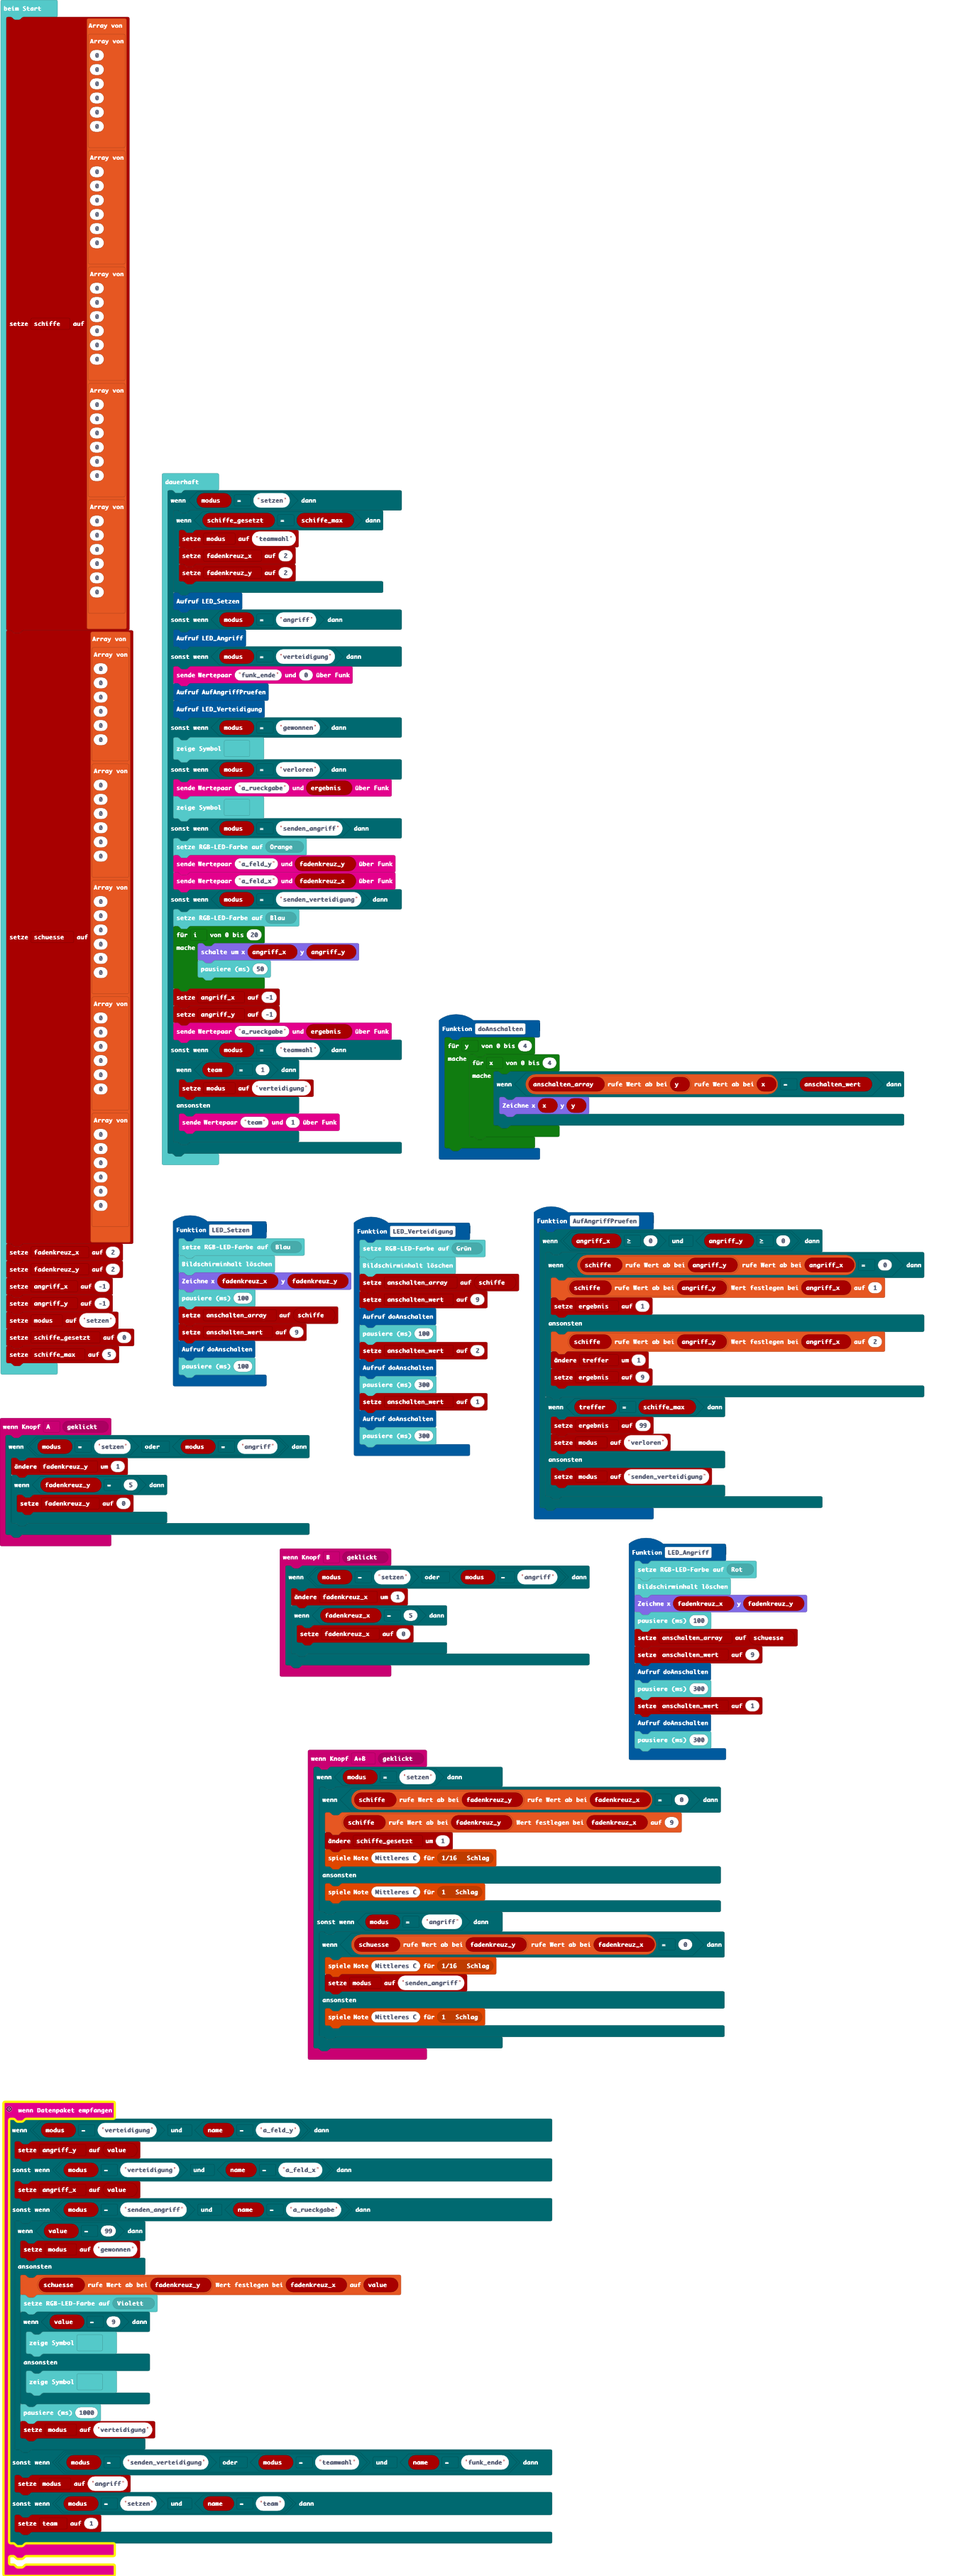
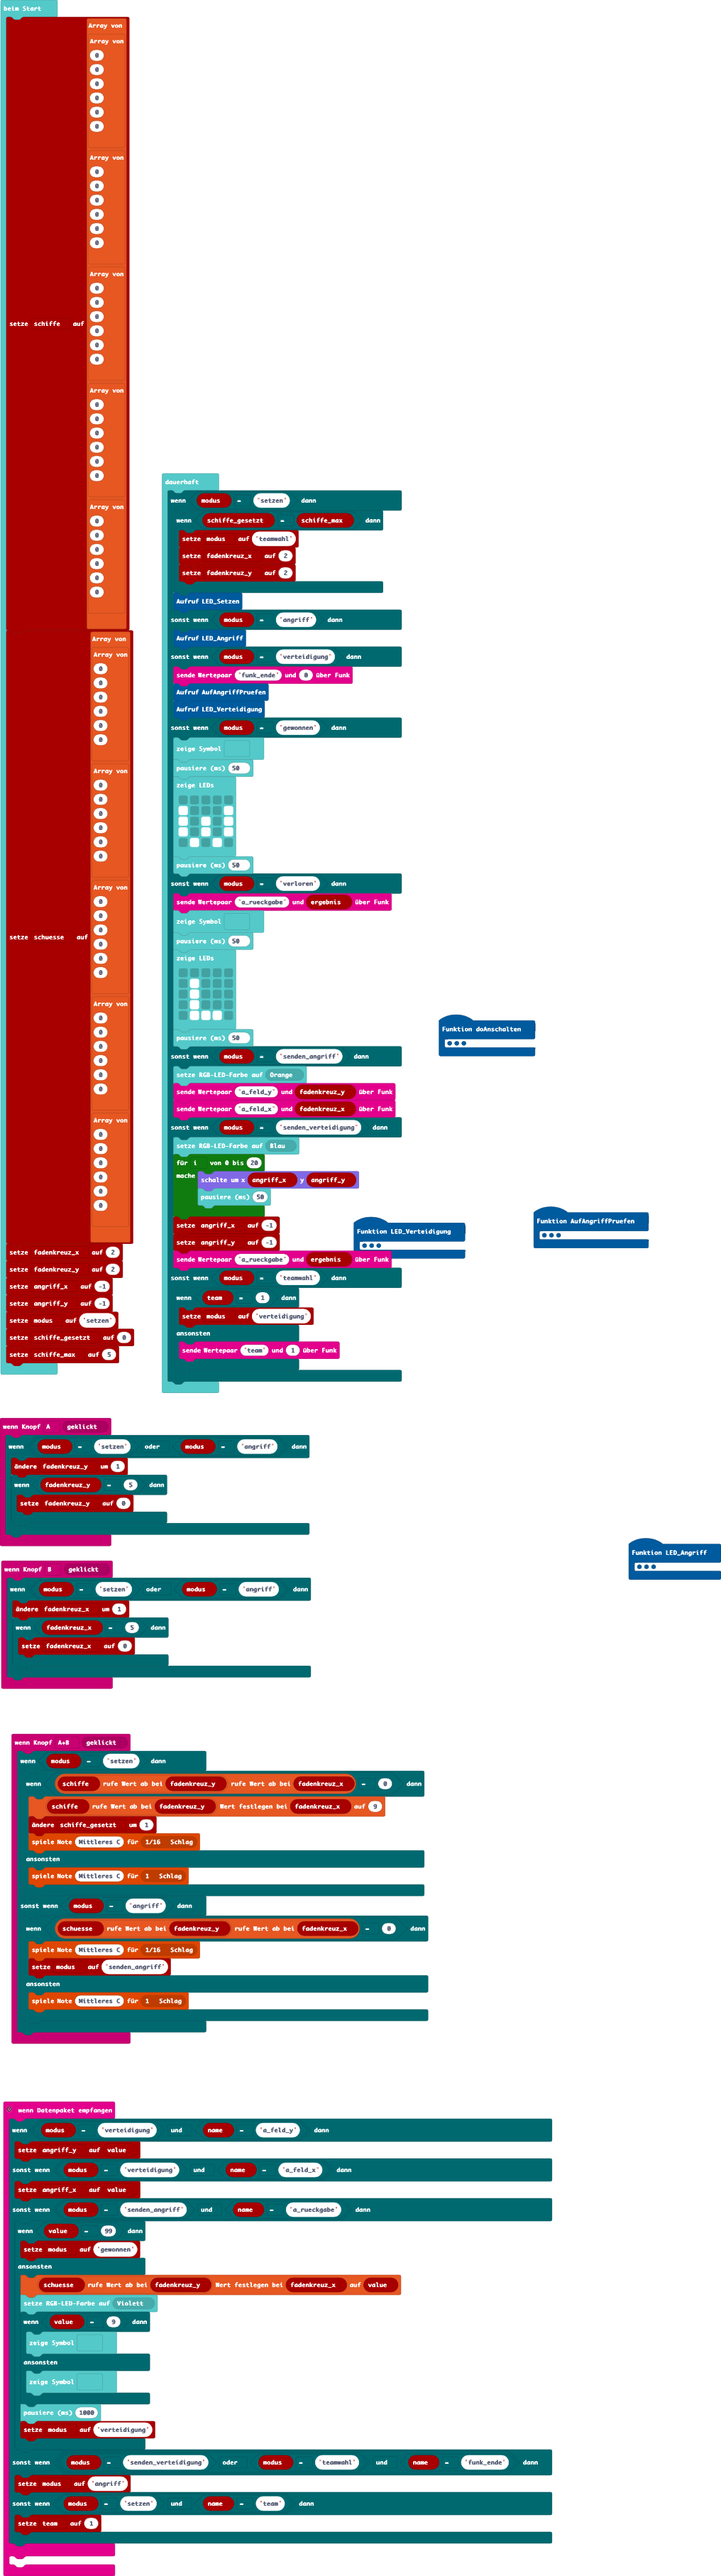
Aktualisiere main.blocks, main.ts

diff --git a/main.ts b/main.ts
@@ -52,7 +52,7 @@ input.onButtonEvent(Button.A, ButtonEvent.Click, function () {
     }
 })
 function LED_Setzen () {
-    basic.setLedColor(Colors.Blue)
+    basic.setLedColor(0x00ffff)
     basic.clearScreen()
     led.plot(fadenkreuz_x, fadenkreuz_y)
     basic.pause(100)
@@ -88,7 +88,7 @@ function AufAngriffPruefen () {
     }
 }
 function LED_Angriff () {
-    basic.setLedColor(Colors.Red)
+    basic.setLedColor(0xff0000)
     basic.clearScreen()
     led.plot(fadenkreuz_x, fadenkreuz_y)
     basic.pause(100)
@@ -110,7 +110,7 @@ function doAnschalten () {
     }
 }
 function LED_Verteidigung () {
-    basic.setLedColor(Colors.Green)
+    basic.setLedColor(0x00ff00)
     basic.clearScreen()
     anschalten_array = schiffe
     anschalten_wert = 9
@@ -243,9 +243,27 @@ basic.forever(function () {
         LED_Verteidigung()
     } else if (modus == "gewonnen") {
         basic.showIcon(IconNames.Happy)
+        basic.pause(50)
+        basic.showLeds(`
+            . . . . .
+            # . . . #
+            # . # . #
+            # . # . #
+            . # . # .
+            `)
+        basic.pause(50)
     } else if (modus == "verloren") {
         radio.sendValue("a_rueckgabe", ergebnis)
         basic.showIcon(IconNames.Sad)
+        basic.pause(50)
+        basic.showLeds(`
+            . . . . .
+            . # . . .
+            . # . . .
+            . # . . .
+            . # # # .
+            `)
+        basic.pause(50)
     } else if (modus == "senden_angriff") {
         basic.setLedColor(Colors.Orange)
         radio.sendValue("a_feld_y", fadenkreuz_y)
